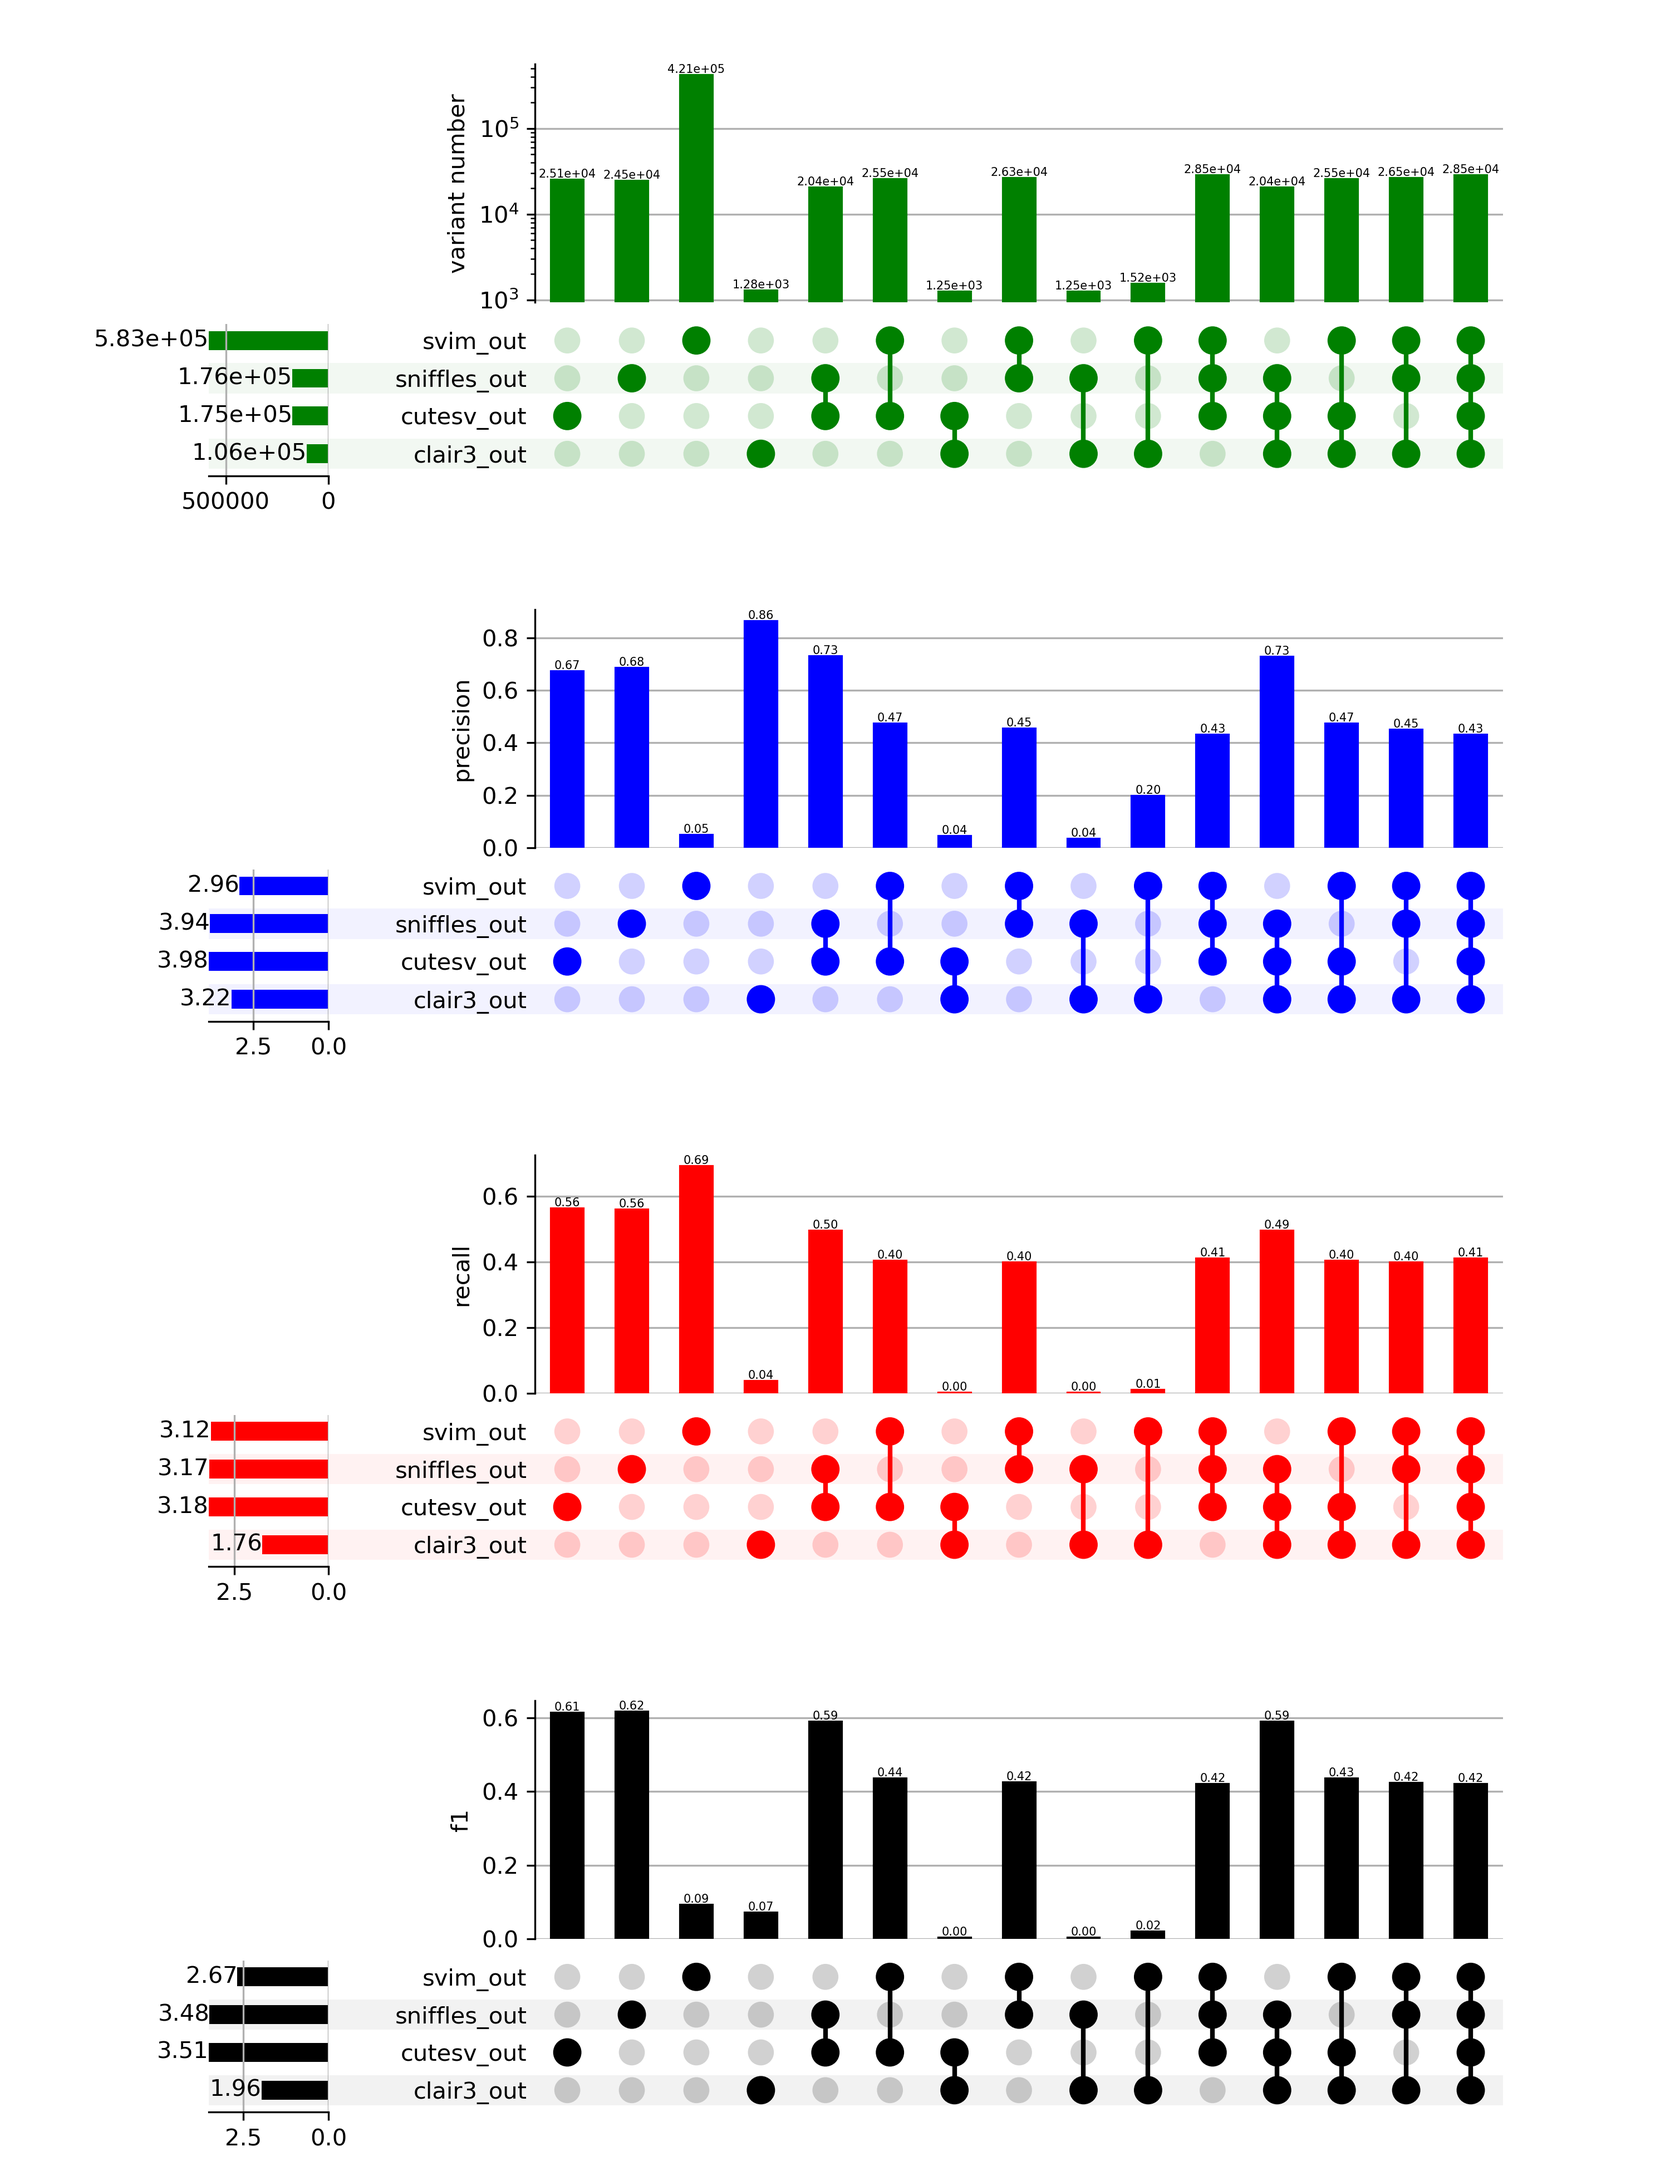
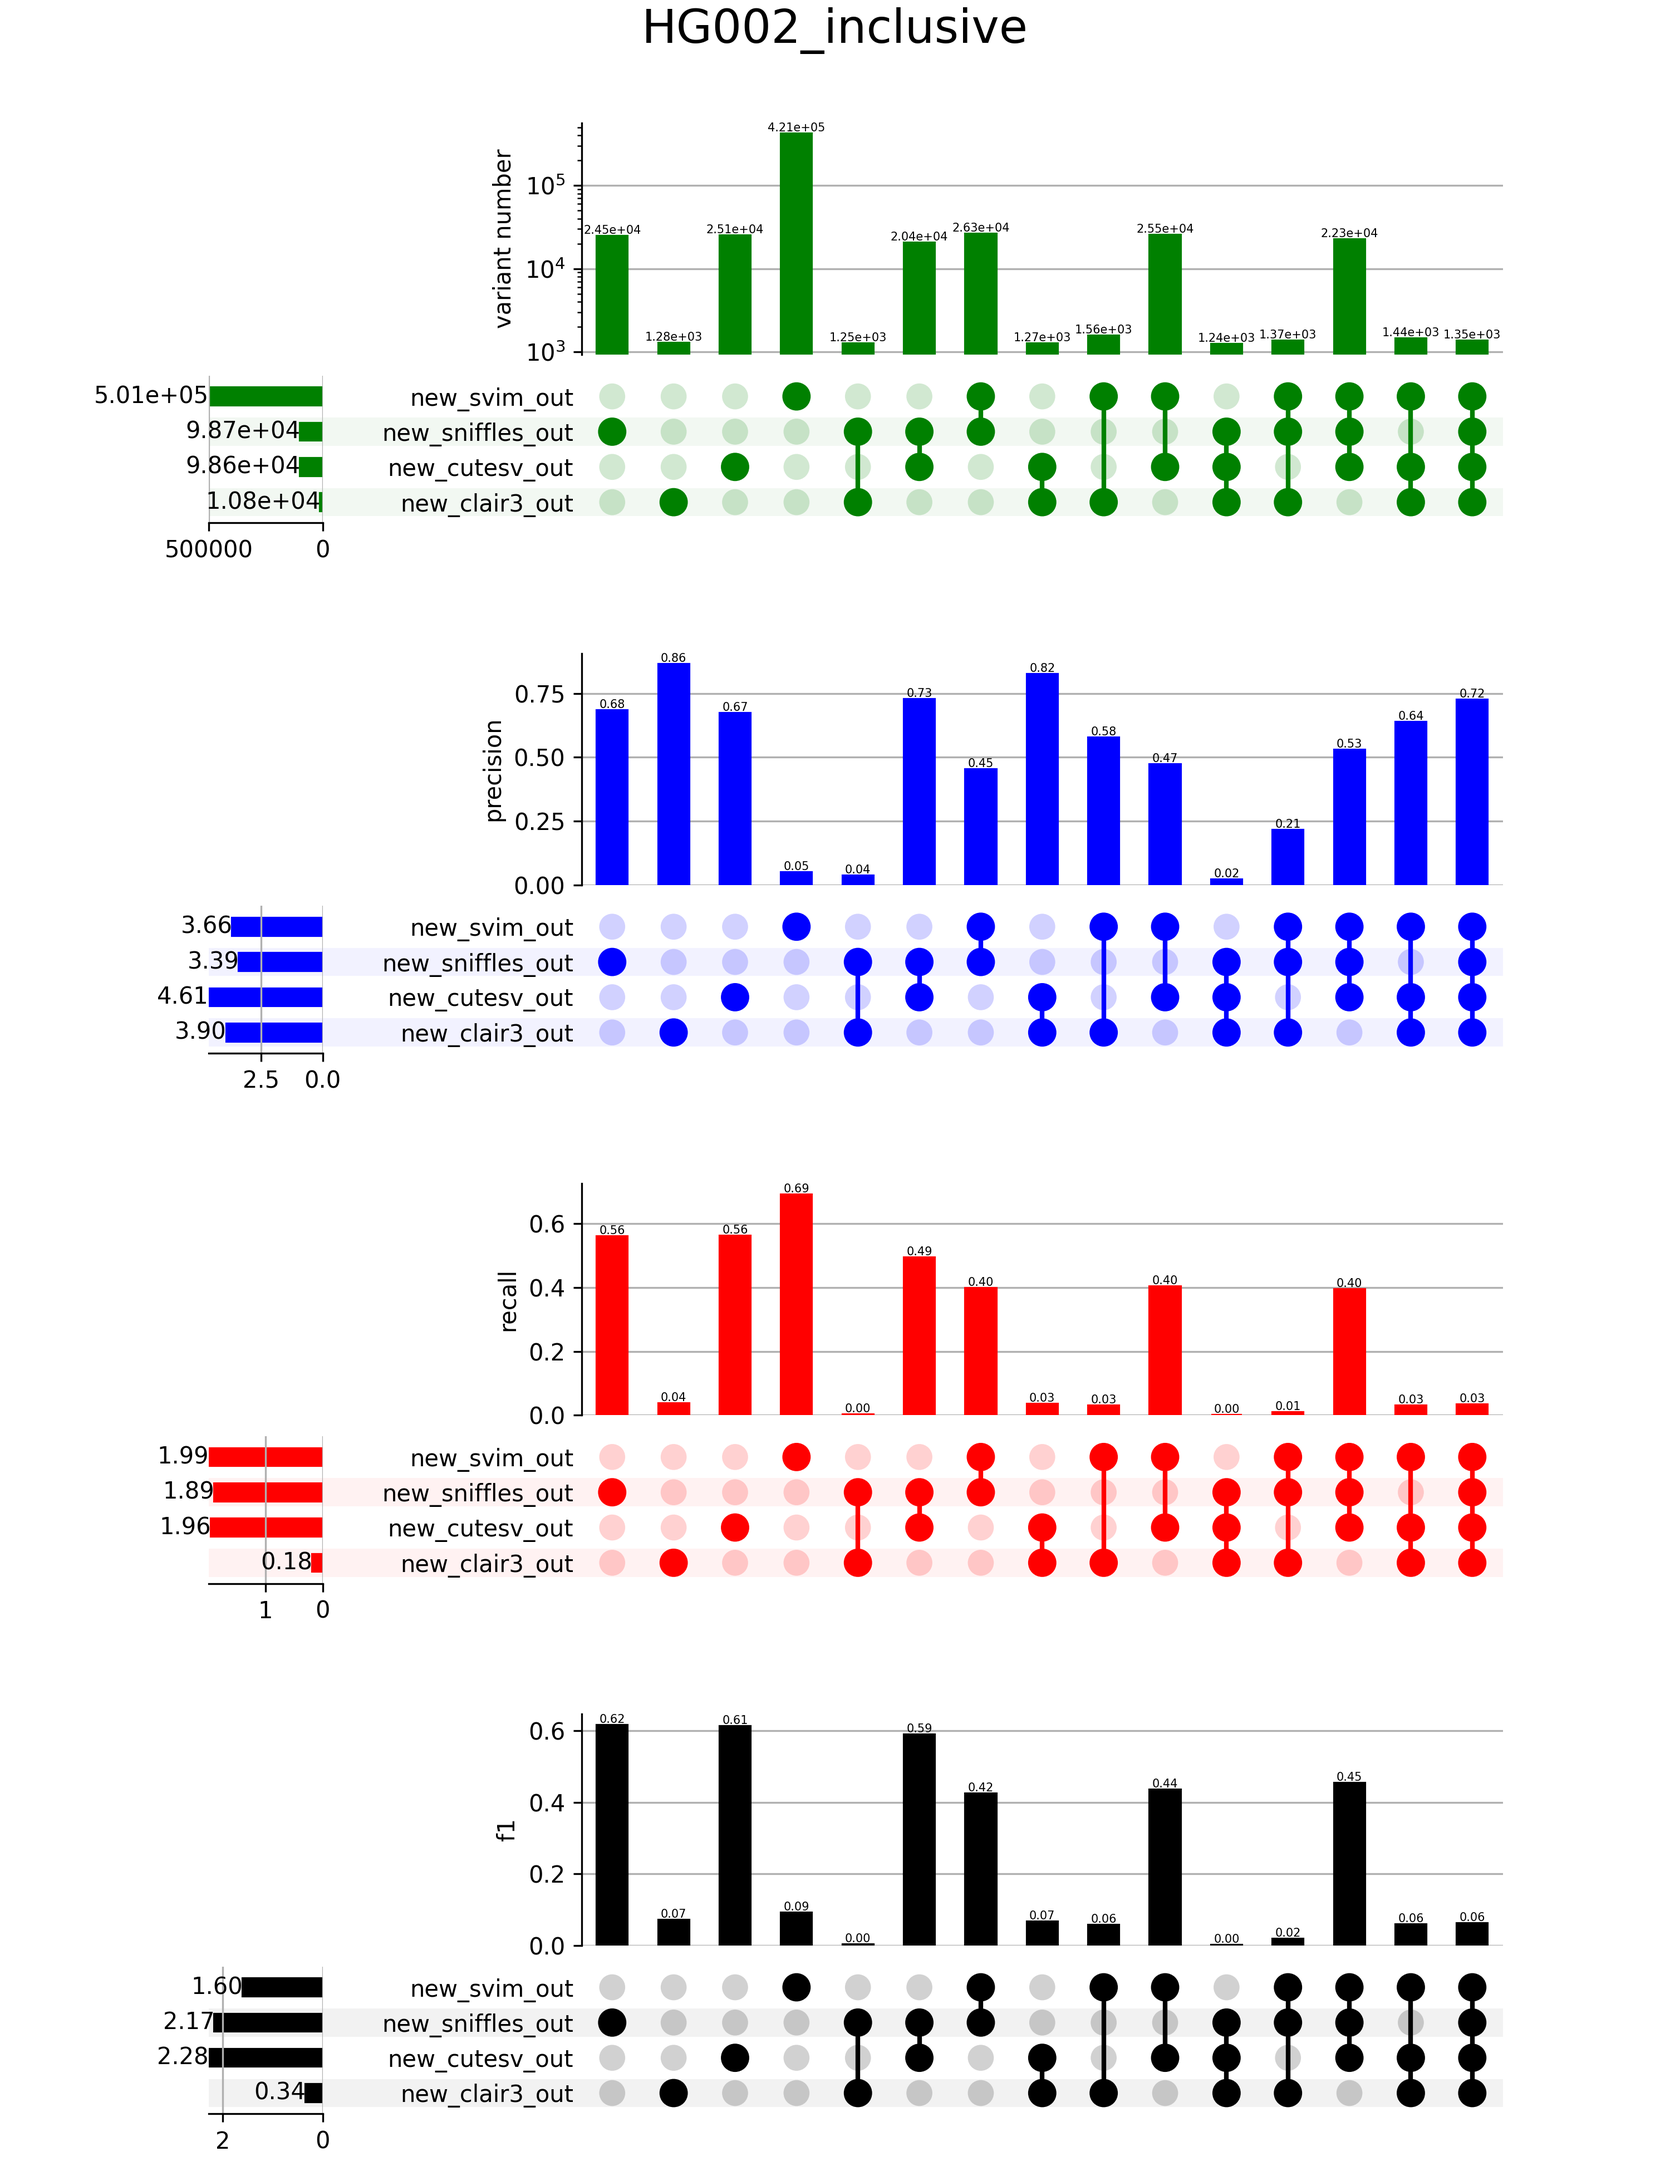
Upsetplot.py adjustments + new example picture

diff --git a/benchmarking/scripts/drawUpset.py b/benchmarking/scripts/drawUpset.py
@@ -115,7 +115,8 @@ def subfig_plotting(uplot, fig, figWidth, ylabel="intersection_size", log_y_axis
             bar_label = f"{inters[i]:.2e}"
         else:
             bar_label = f"{inters[i]:.2f}"
-        plt.text(inters[i], i, bar_label, ha="right", va="center")
+        spot = inters[i] if inters[i] > 0 else 0
+        plt.text(spot, i, bar_label, ha="right", va="center")
 
     for plot in uplot._subset_plots:
         ax = uplot._reorient(fig.add_subplot)(specs[plot['id']],
@@ -149,15 +150,17 @@ def subfig_plotting(uplot, fig, figWidth, ylabel="intersection_size", log_y_axis
     return out
 
 
-def check_input(possible_input: int or None) -> int:
+def check_input(possible_input: int | None) -> int:
     if possible_input is None:
-        return -1
+        return 0
     else:
         return possible_input
     
 
 summaries = json.load(open(sys.argv[1], "r"))
+bench_name = sys.argv[2]
 inputData = [[],[],[],[],[]]
+summaries.sort(key=lambda x: len(x["left"].replace(".n.d.vcf.gz", "").replace(".vcf", "").split("-")))
 for file in summaries:
     fileName = file["left"]
     fileAdress = file["right"]
@@ -179,6 +182,7 @@ amountOfRows = len(rowSet)
 figWidth = 10
 fig = plt.figure(layout="constrained", figsize=(figWidth,figWidth * 1.3))
 subfigs = fig.subfigures(4,1)
+fig.subtitle(bench_name, fontsize=20) 
 
 variant_number_plot = upsetplot.from_memberships(inputData[0], data=inputData[4])
 variant_number_upset = upsetplot.UpSet(data=variant_number_plot, facecolor="green", sort_by="input", sort_categories_by="input")
